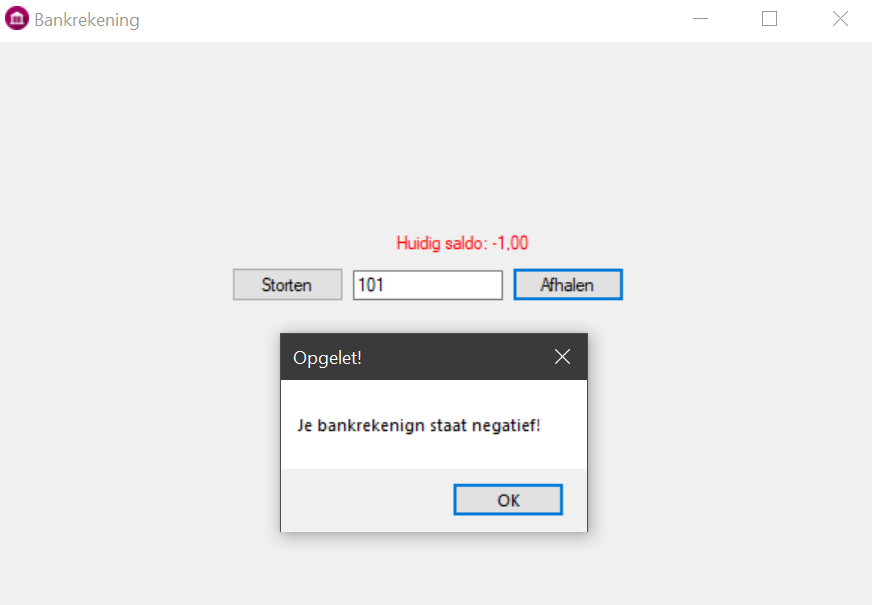
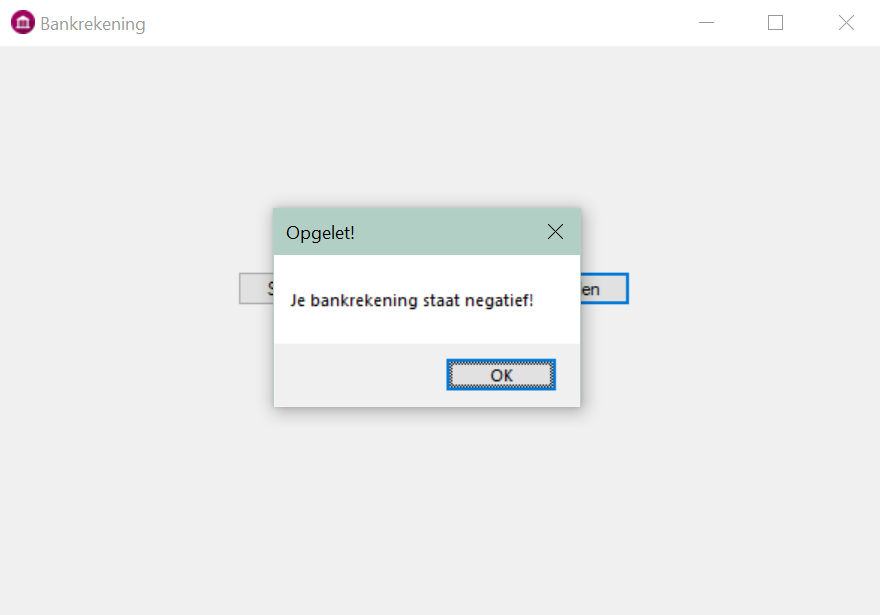
Fix typo

Changed region(s): [[0.2477, 0.3273, 0.7122, 0.8926], [0.0, 0.0, 0.1858, 0.0595], [0.867, 0.0, 0.8979, 0.0595]]

diff --git a/vakken/oop/les5.md b/vakken/oop/les5.md
@@ -141,7 +141,7 @@ public partial class Bank : Form
             if (bankrekening.Saldo < 0)
             {
                 labelSaldo.ForeColor = Color.Red;
-                MessageBox.Show("Je bankrekenign staat negatief!", "Opgelet!", MessageBoxButtons.OK);
+                MessageBox.Show("Je bankrekening staat negatief!", "Opgelet!", MessageBoxButtons.OK);
             }
 
             else
